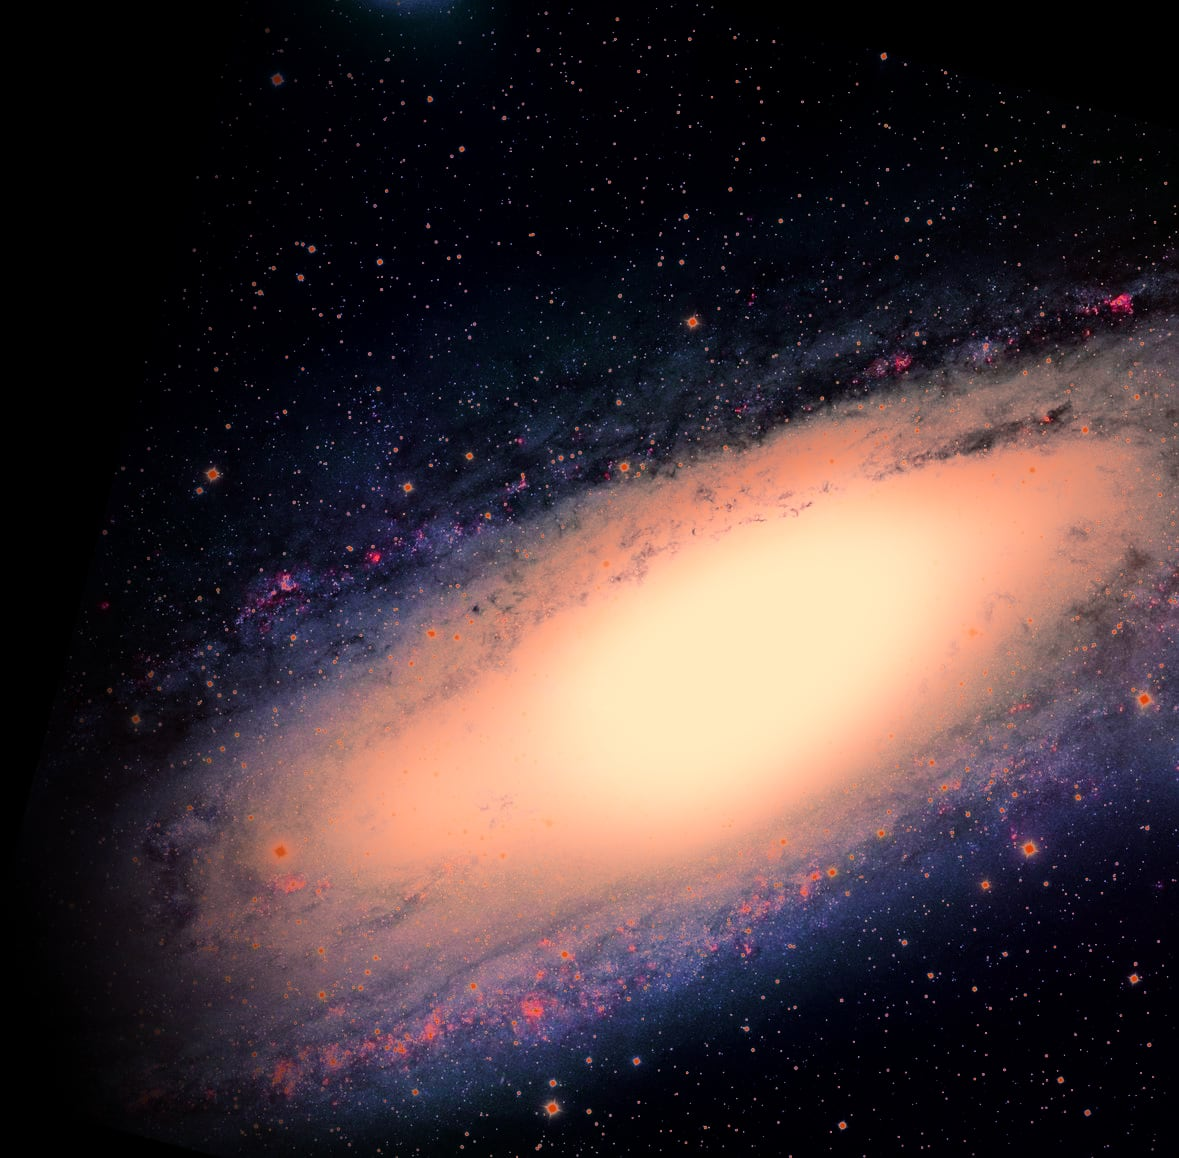
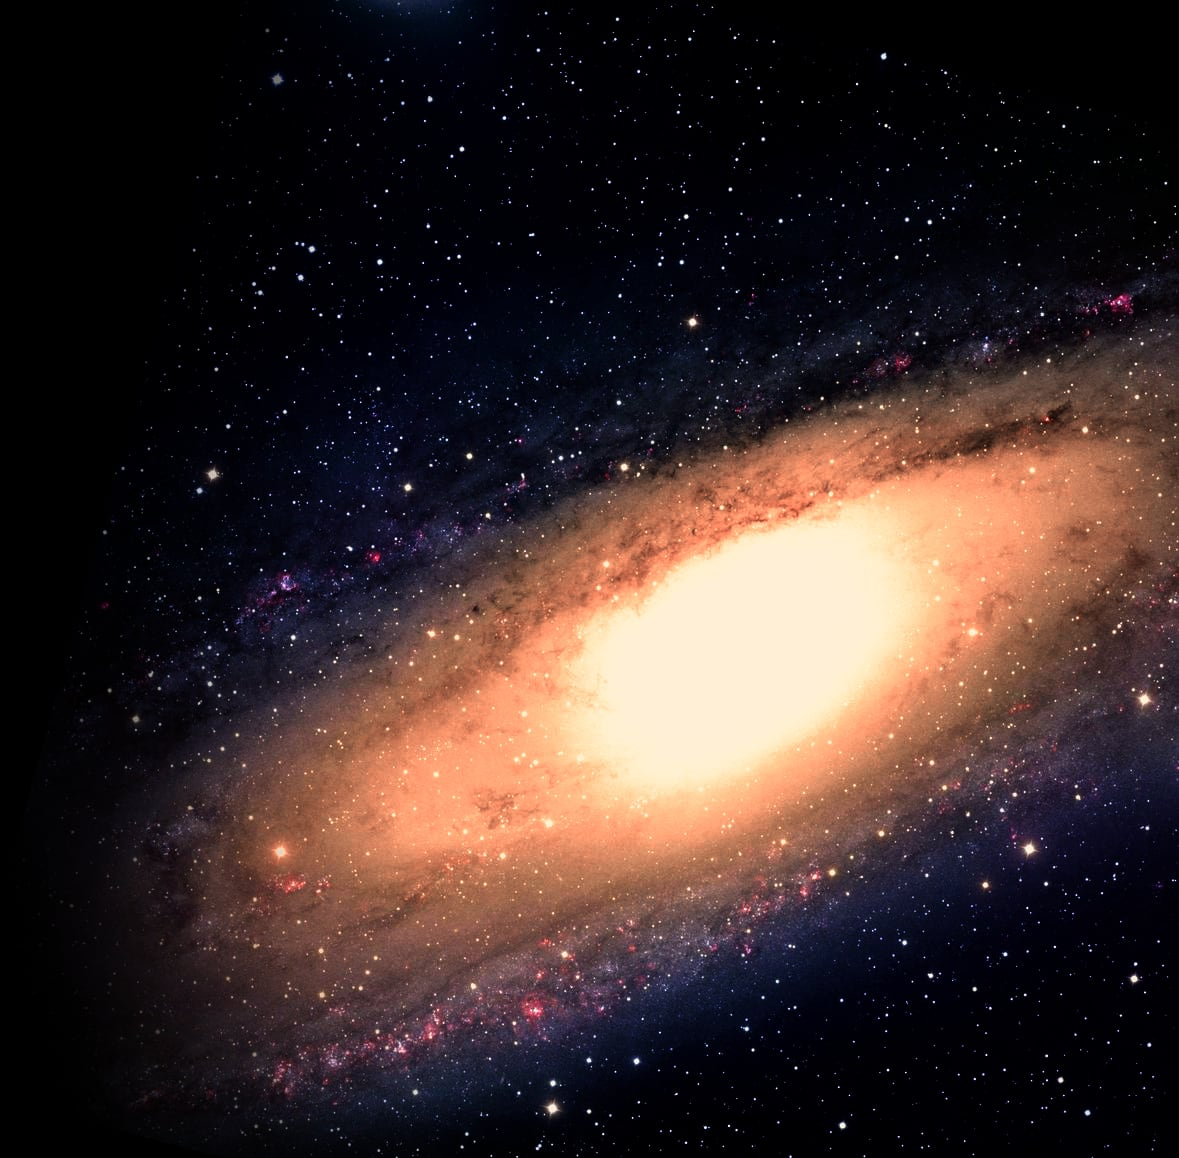
Fix the onboarding capture, the Andromeda hero and the sky's ground edge
The first deep link of a fresh install lost to the start-up redirect, so
01_onboarding had been capturing the sky. Andromeda keeps its dust lanes
now, and the hero overlay no longer greys its core. A low far treeline
removes the straight ground edge between the large trees.

diff --git a/skylens-rn/src/app/object/[id].tsx b/skylens-rn/src/app/object/[id].tsx
@@ -86,7 +86,7 @@ export default function ObjectDetail() {
       <View style={styles.hero}>
         {hero ? <Image source={hero} style={StyleSheet.absoluteFill} contentFit="cover" />
           : <SkyView key={o.id} interactive={false} showCompass={false} hideGround focusId={o.id} initial={{ fov: o.type === 'constellation' ? 42 : 24 }} />}
-        <LinearGradient pointerEvents="none" colors={['rgba(6,10,20,0.35)', 'rgba(6,10,20,0)', color.base]} locations={[0, 0.3, 1]} style={StyleSheet.absoluteFill} />
+        <LinearGradient pointerEvents="none" colors={['rgba(6,10,20,0.35)', 'rgba(6,10,20,0)', 'rgba(6,10,20,0)', color.base]} locations={[0, 0.22, 0.52, 0.9]} style={StyleSheet.absoluteFill} />
       </View>
       <ScrollView contentContainerStyle={{ paddingTop: 262, paddingBottom: 128 + insets.bottom }} showsVerticalScrollIndicator={false}>
         <Reveal style={styles.titleBlock}>
